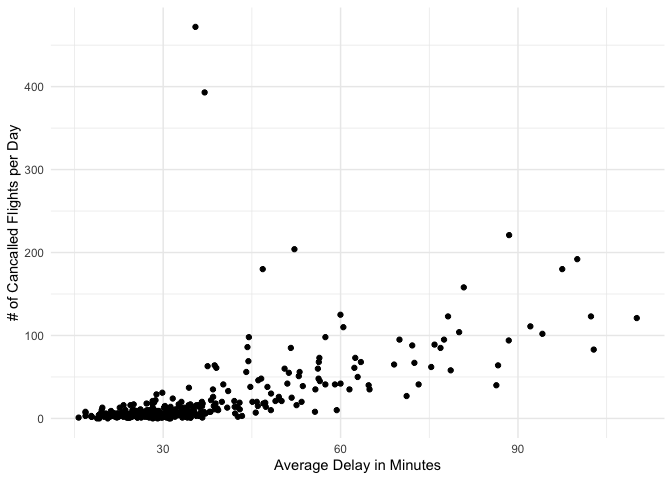
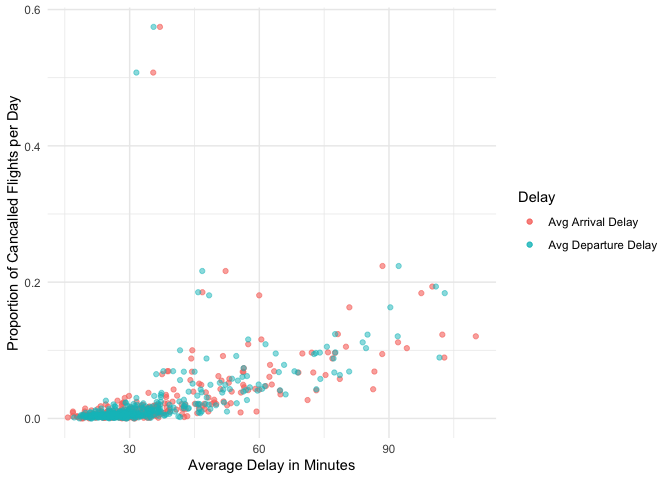
edit on last question

diff --git a/hw1/433-hw1.md b/hw1/433-hw1.md
@@ -76,16 +76,20 @@ flights2 %>%
       !is.na(dep_time) ~ 0
     )) %>%
   group_by(year, month, day) %>%
-  summarise(avg_del = mean(mean(arr_delay[arr_delay > 0], na.rm=TRUE), mean(dep_delay[dep_delay > 0], na.rm=TRUE)),
-            sum_cancelled = sum(cancelled)) %>%
-  ggplot() + 
-  geom_point(aes(x= avg_del, y=sum_cancelled)) +
+  summarise(avg_arr_del = mean(arr_delay[arr_delay > 0], na.rm=TRUE),
+            avg_dep_del =  mean(dep_delay[dep_delay > 0], na.rm=TRUE),
+            prop_cancelled = mean(cancelled)) %>%
+  ggplot(aes(y=prop_cancelled)) + 
+  geom_point(aes(x= avg_arr_del, color='Avg Arrival Delay'), alpha=0.6) +
+  geom_point(aes(x= avg_dep_del, color='Avg Departure Delay'), alpha=0.5) + 
   xlab("Average Delay in Minutes") + 
-  ylab("# of Cancalled Flights per Day") + theme_minimal()
+  ylab("Proportion of Cancalled Flights per Day") + theme_minimal() +
+  labs(color='Delay')
 ```
 
 ![](433-hw1_files/figure-markdown_github/unnamed-chunk-5-1.png)
 
-Notice that there is a positive correlation between average delay and
-the number of cancelled flights per day, meaning that flights with
-higher average delay are more likely to get cancelled.
+Notice that there is a positive correlation between average delays and
+the number of cancelled flights per day, meaning that if certain days
+have higher average delay then the proportion of cancelled flights is
+likely to be high as well.
